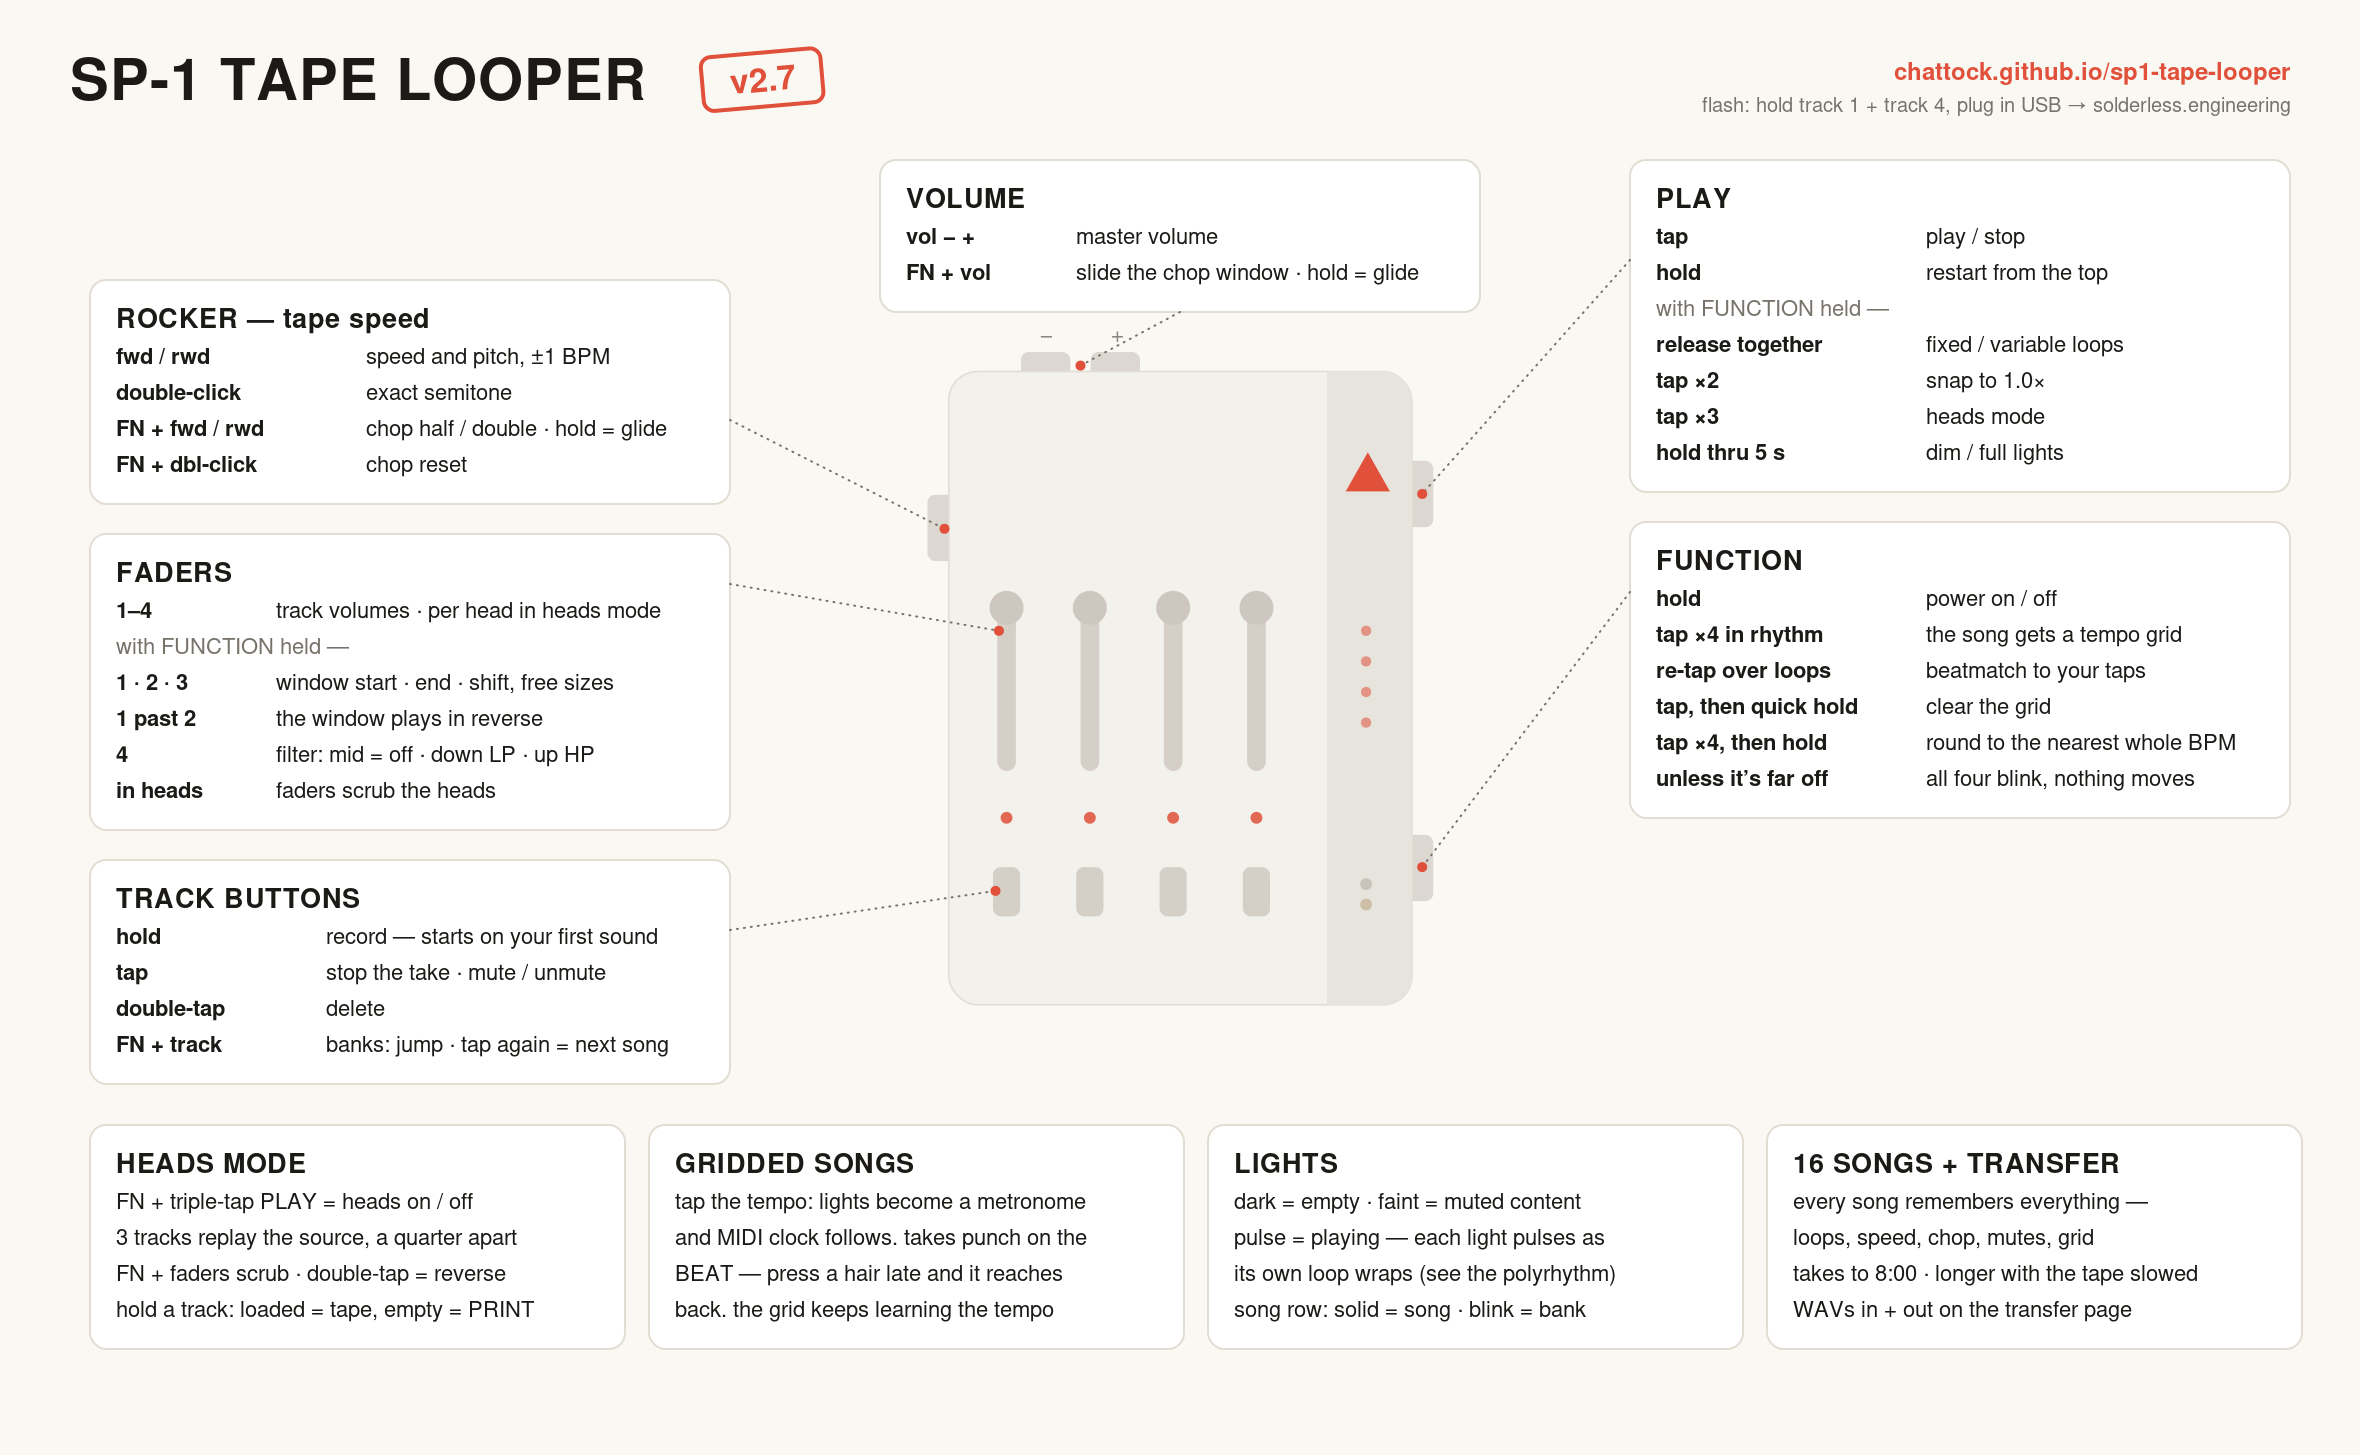
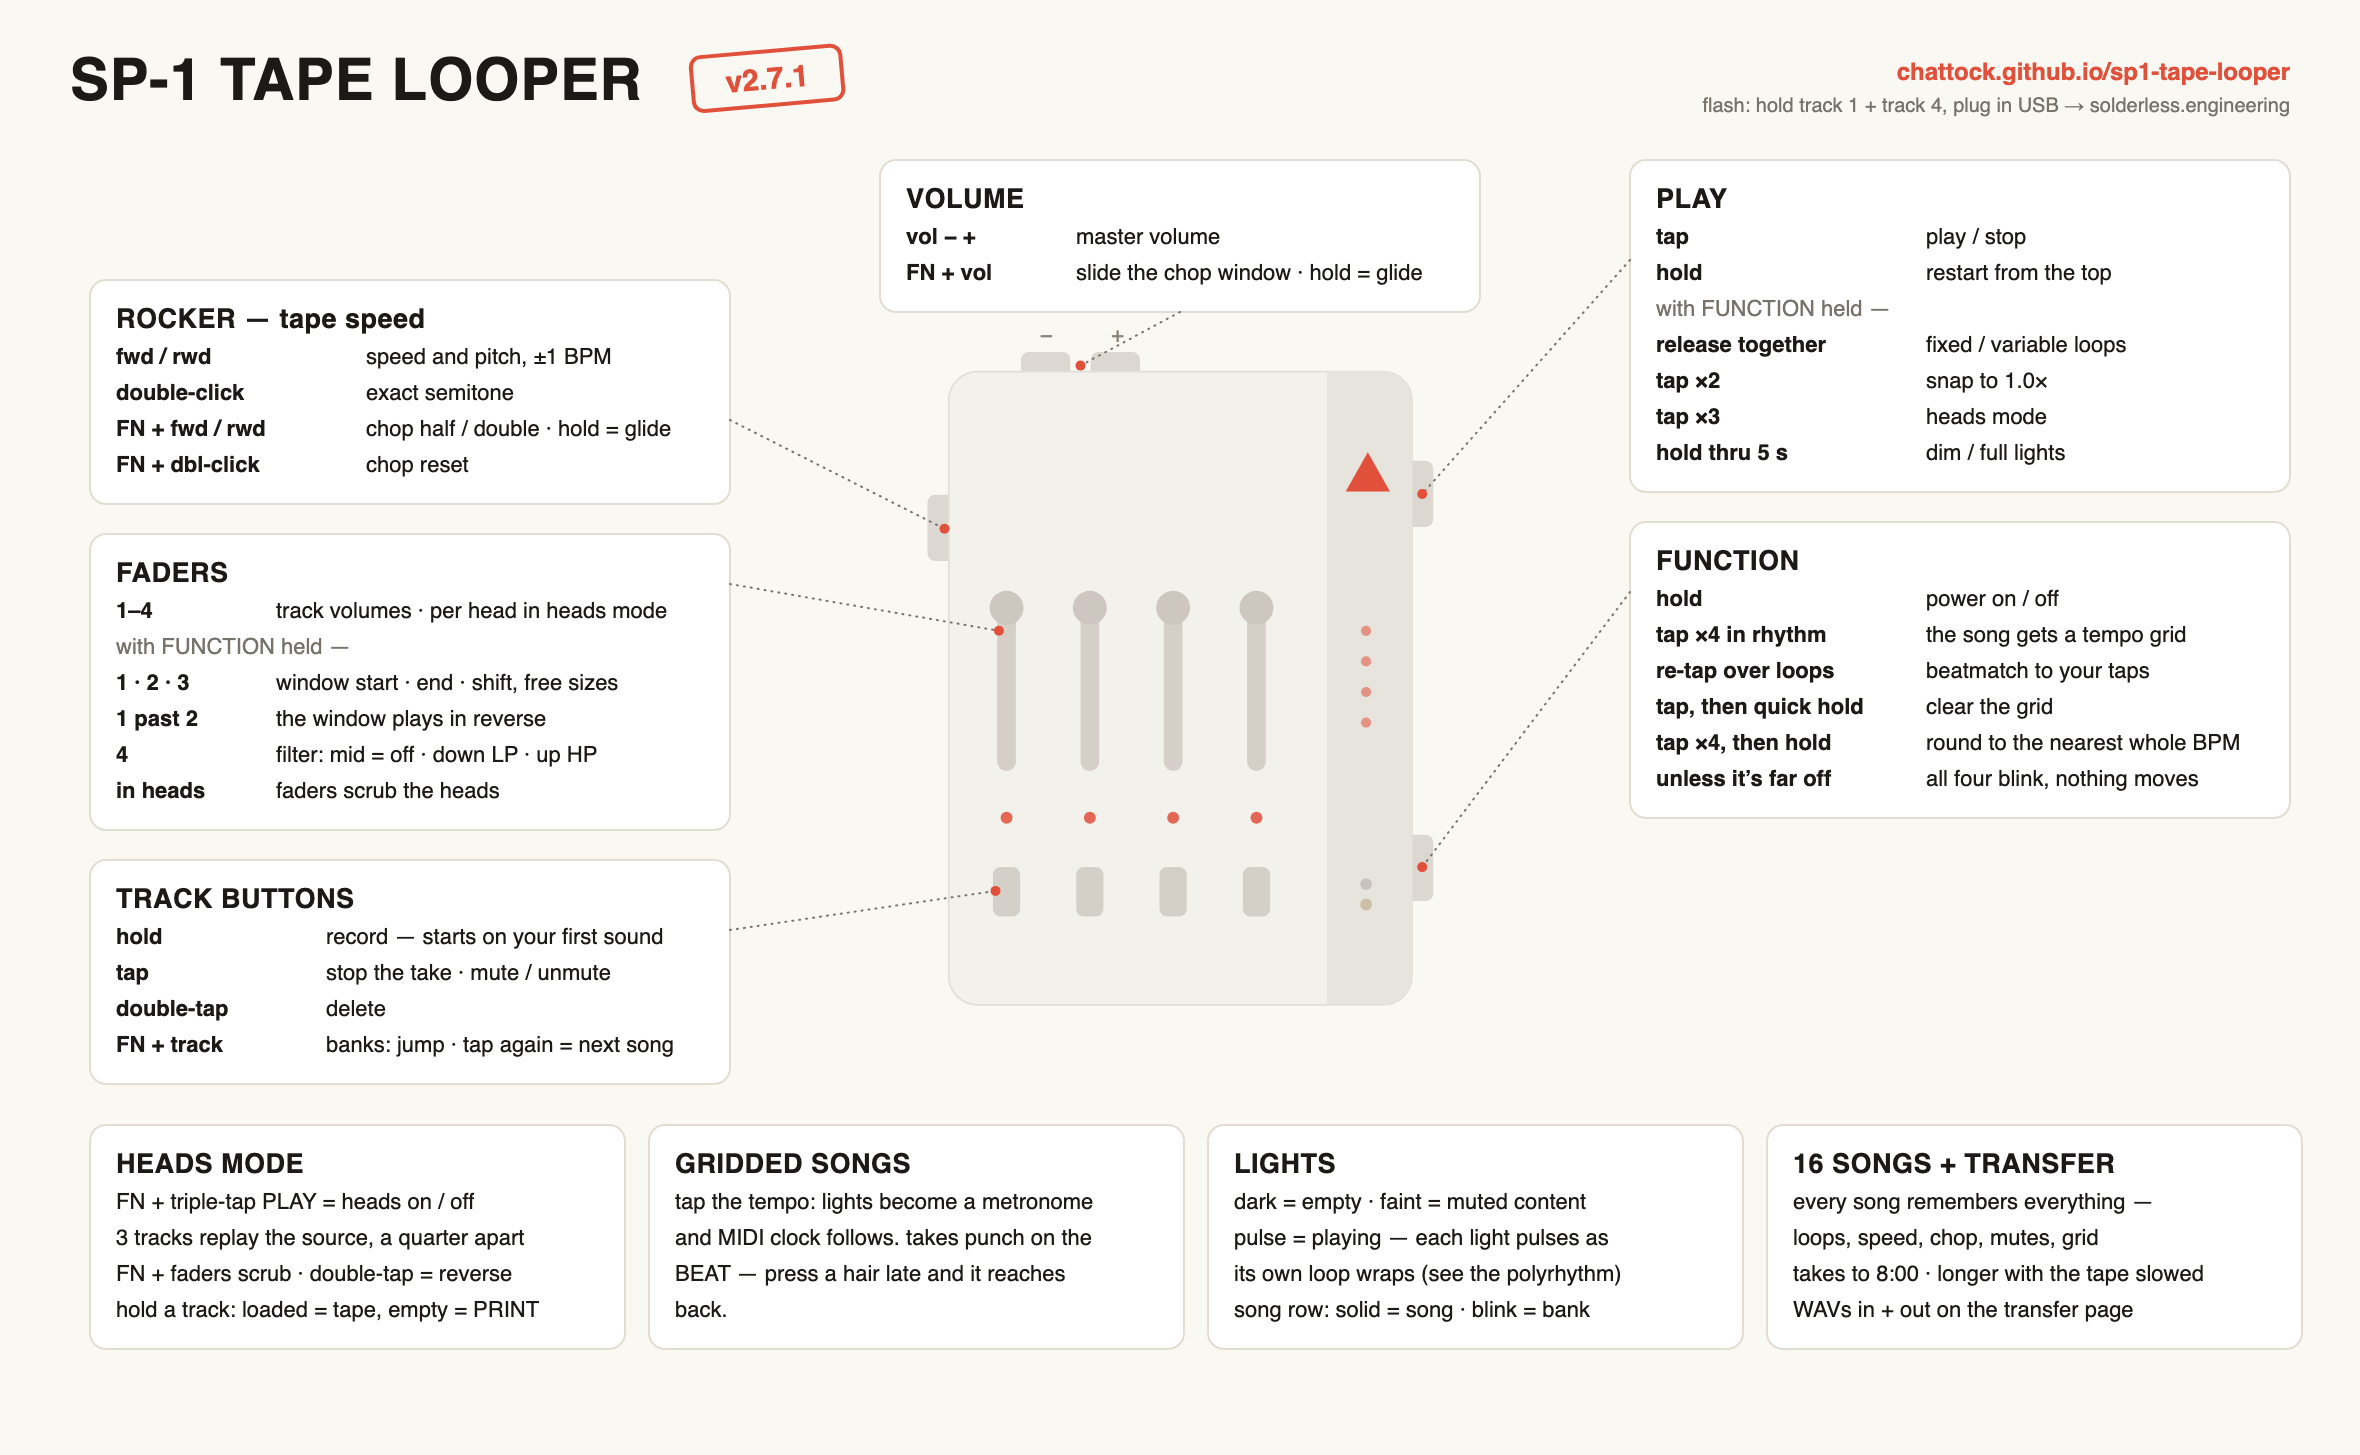
docs: README + control map catch up with v2.7.1
The record-gesture table documents the instant empty-track tap; the
map is restamped v2.7.1. Grid-following language removed to match M43
(grids hold still).

diff --git a/README.md b/README.md
@@ -49,10 +49,8 @@ What 2.0 adds on top of the 1.x looper:
   redefining it, so the timing you tapped in is the timing you keep; takes
   are exact whole numbers of beats and exact multiples of each other; the
   count-in is one beat; a punch pressed slightly LATE still starts on the
-  beat, filled in from the input the machine was already holding; and the
-  first take teaches the machine the real tempo from its own audio, which
-  the grid, metronome and MIDI clock then follow. No timing precision
-  required from you.
+  beat, filled in from the input the machine was already holding. No
+  timing precision required from you.
 - **Loop chop** — a live performance window over every playing track: shrink,
   grow, slide or reset it from the FUNCTION layer — or shape it directly on
   the faders (start / end / shift, any width), cross the edges to play the
@@ -199,7 +197,8 @@ The one-page map ([full size](docs/sp1-control-map.png)):
 
 | Gesture | Action |
 |---|---|
-| Hold (~0.2 s), then let go | **Arms and records, hands-free.** Capture begins on the first sound it hears (a count-in is never recorded), and keeps going after you release. |
+| Tap an **empty** track — the lightest touch | **Arms and records, hands-free.** Everything from the moment your finger lands is kept; capture begins on the first sound it hears (a count-in is never recorded), and keeps going after you release. |
+| Hold (~0.2 s) a **playing** track | **Re-records it** — the old take is replaced. |
 | Tap the same track while it records | **Ends the take** — it starts looping immediately, exactly as long as you played it. A tap before any sound has arrived cancels the arm instead. |
 | Quick tap (playing track) | Mutes / unmutes that track (content kept). |
 | Quick tap on several tracks together | Mutes / unmutes **all of them at once** — any combination of the four works. |
@@ -370,16 +369,6 @@ The one-page map ([full size](docs/sp1-control-map.png)):
   beat. Loop lengths are stored to the **sample**, not rounded to flash
   blocks, so a loop is exactly the number of beats you played and an exact
   multiple of its siblings. Songs without a grid record exactly as before.
-- **The grid keeps learning the tempo.** Tapping lands 0.2–1% off, and that
-  error is what walks a loop off the track it was recorded from. Every
-  gridded take leaves a landmark — its first onset — and the music runs at
-  one tempo through all of them, so each take is measured against your
-  *first* one and the baseline grows all session. A rough tap ends up exact
-  after a couple of takes without you doing anything. Corrections are small
-  and need enough material to be sure. A click-track bench at 128.000 BPM:
-  a tap of 128.24 refined to 127.985, converged on 128.000, then found
-  nothing left to correct — an eight-beat take comes back as exactly eight
-  beats, to the sample. This fixes how *fast*, not where "one" is.
 - **Round to a whole BPM.** Tap a tempo, then hold FUNCTION about a second.
   The track lights sweep, catch the beat the grid is on, and the tempo
   rounds to the nearest whole number. If your tap isn't near one it won't
